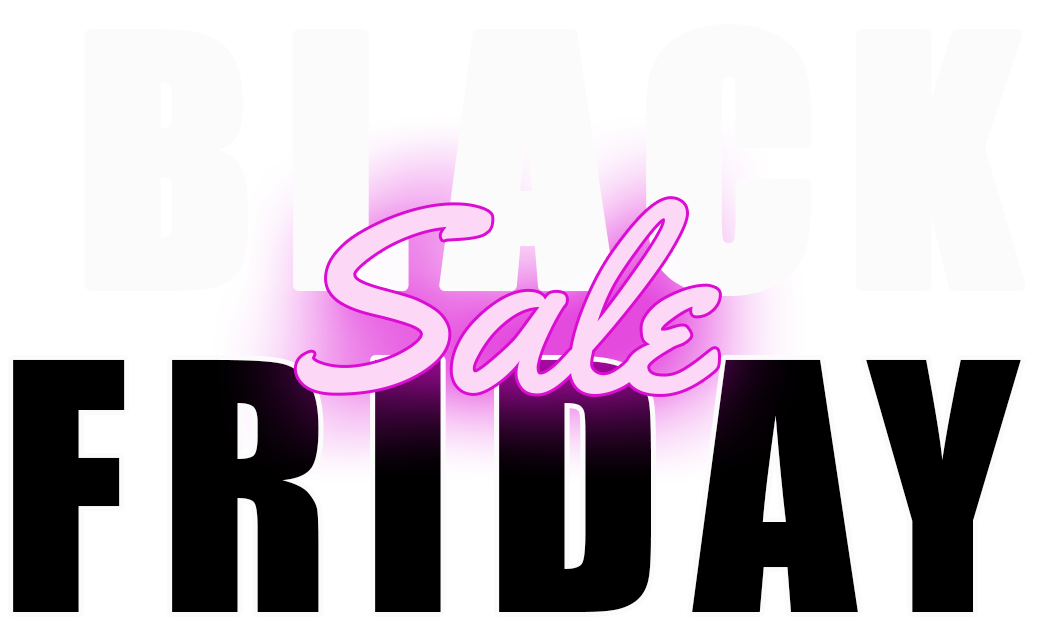
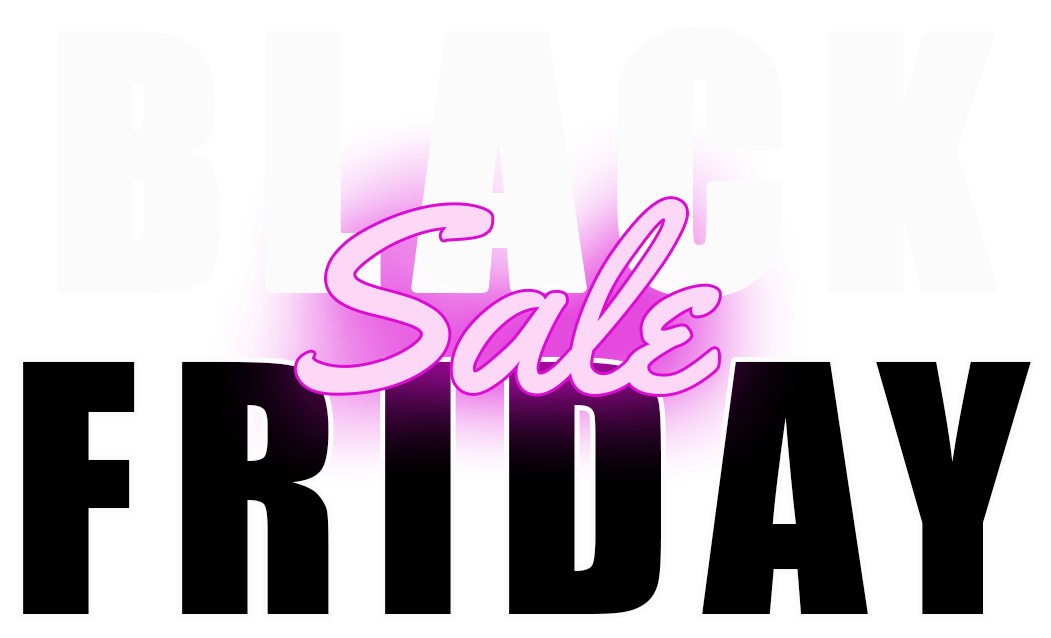
Fix black2 img

diff --git a/src/index.html b/src/index.html
@@ -26,7 +26,7 @@
       <!--Barra de navegação-->
       <nav class="navbar navbar-expand-lg navbar-dark">
         <a class="navbar-brand" href="#">
-          <img src="./img/logo.png" width="200" class="d-inline-block align-text-top">
+          <img src="./img/logo.png" title="logo" width="200" class="d-inline-block align-text-top">
         </a>
         <!--Ícone para versão tablet/smartphone-->
         <button class="navbar-toggler" type="button" data-toggle="collapse" data-target="#navbarNavAltMarkup"
@@ -47,23 +47,24 @@
       <section class="row">
         <div id="new-flex" class="d-flex flex-row align-items-center my-5 py-5">
           <div class="col">
-            <img class="img-fluid" src="./img/girl.png">
+            <img class="img-fluid" title="Girl" src="./img/girl.png">
           </div>
           <div class="col">
-            <img class="img-fluid" src="./img/70.png">
+            <img class="img-fluid" title="70% Off" src="./img/70.png">
           </div>
           <div class="col">
-            <img class="img-fluid" src="./img/black.png">
+            <img class="img-fluid" title="Black Friday" src="./img/black.png">
             <div class="me-4">
               <p class="text-end fw-light">
                 Prepare seu dinheiro, cartões de crédito e humor!
               </p>
               <p class="text-end fw-light">
-                Fique ligado nas promoções incríveis e economize até <strong class="h5">70%</strong> com a promoção
+                Fique ligado nas promoções incríveis e economize até
+                <strong class="h5">70%</strong> com a promoção
                 insana da Black Friday.
               </p>
               <!--Formulário-->
-              <div class="input-group ps-5 ms-5" style="width: 90%;">
+              <div class="input-group ps-5 ms-5 input-size">
                 <button class="btn btn-outline-light fw-bold" type="button" id="button-addon2"
                   onclick="addItem()">Cadastrar</button>
                 <input type="email" class="form-control fw-light text-end" placeholder="Digite seu melhor e-mail"
@@ -82,24 +83,30 @@
           <div class="row g-4 pt-5 row-cols-1 row-cols-md-3 text-center">
             <div class="feature col">
               <div class="feature-icon">
-                <img class="img-fluid" src="./img/roupa1.png">
+                <img class="img-fluid" title="Blusa estampada" src="./img/roupa1.png">
               </div>
               <p class="h3 fw-light">SÓ AS MELHORES</p>
-              <p class="fw-light">As peças mais pedidas da temporada para garantir estilo e leveza na sua produção.</p>
+              <p class="fw-light">
+                As peças mais pedidas da temporada para garantir estilo e leveza na sua produção.
+              </p>
             </div>
             <div class="feature col">
               <div class="feature-icon">
-                <img class="img-fluid" src="./img/roupa2.png">
+                <img class="img-fluid" title="Vestido rosa" src="./img/roupa2.png">
               </div>
               <p class="h3 fw-light">MAIS VOCÊ</p>
-              <p class="fw-light">Encontre roupas que representam seu estilo e garanta um look com a sua cara.</p>
+              <p class="fw-light">
+                Encontre roupas que representam seu estilo e garanta um look com a sua cara.
+              </p>
             </div>
             <div class="feature col">
               <div class="feature-icon">
-                <img class="img-fluid" src="./img/roupa3.png">
+                <img class="img-fluid" title="Calça jeans" src="./img/roupa3.png">
               </div>
               <p class="h3 fw-light">ESPECIAL DENIN</p>
-              <p class="fw-light">O tecido mais amado do mundo não podia faltar, nas mais diversas peças e cortes.</p>
+              <p class="fw-light">
+                O tecido mais amado do mundo não podia faltar, nas mais diversas peças e cortes.
+              </p>
             </div>
           </div>
         </div>
@@ -155,12 +162,12 @@
     <section class="bg-purple">
       <div class="container px-4 py-4 text-center">
         <div class="d-flex flex-column align-items-center">
-          <img class="img-fluid" src="./img/black2.png" style="width: 20%;">
+          <img class="img-fluid" width="50%" title="Black Friday" src="./img/black2.png">
         </div>
         <p class="pb-2 mt-5 display-6">ESTAMOS CONTANDO OS DIAS</p>
-        <div class="d-flex justify-content-center mt-3">
+        <div class="d-flex justify-content-center mt-3 new-flex">
           <!--Contador-->
-          <form class="d-flex mt-3">
+          <form class="d-flex mt-3 new-flex">
             <div class="form-floating pe-4">
               <input type="text" class="form-control text-center bg-black size" id="dia" disabled>
               <label for="dia">DIAS</label>
@@ -173,7 +180,7 @@
               <input type="text" class="form-control text-center bg-black size" id="minuto" disabled>
               <label for="minuto">MINUTOS</label>
             </div>
-            <div class="form-floating pe-4 size">
+            <div class="form-floating pe-4">
               <input type="text" class="form-control text-center bg-black size" id="segundo" disabled>
               <label for="segundo">SEGUNDOS</label>
             </div>
@@ -183,7 +190,9 @@
       <div class="d-flex flex-column align-items-center pb-5">
         <div class="text-center mt-3" style="width: 400px;">
           <p class="h5 fw-light">Receba no seu e-mail as melhores ofertas! </p>
-          <p class="h5 fw-light mt-3"> Encontre as promoções que cabem no seu bolso e comece a economizar!</p>
+          <p class="h5 fw-light mt-3">
+            Encontre as promoções que cabem no seu bolso e comece a economizar!
+          </p>
           <!--Botão de voltar ao topo-->
           <div>
             <button type="button" id="subir" class="btn btn-outline-light mt-3" onclick="upToTop()">Estou

diff --git a/src/style.css b/src/style.css
@@ -5,6 +5,12 @@
   #new-flex{
     flex-direction: column!important;
   }
+  .new-flex{
+    flex-direction: column!important;
+    align-items: center;
+    padding-left: 15px;
+  }
+ 
 }
 * {
   font-family: 'Roboto', sans-serif!important;
@@ -15,6 +21,10 @@ body{
   color: #fff;
   background-attachment: scroll;
 }
+.input-size{
+  width: 90%;
+}
+
 .cover{
   display: table;
   width: 100%;
